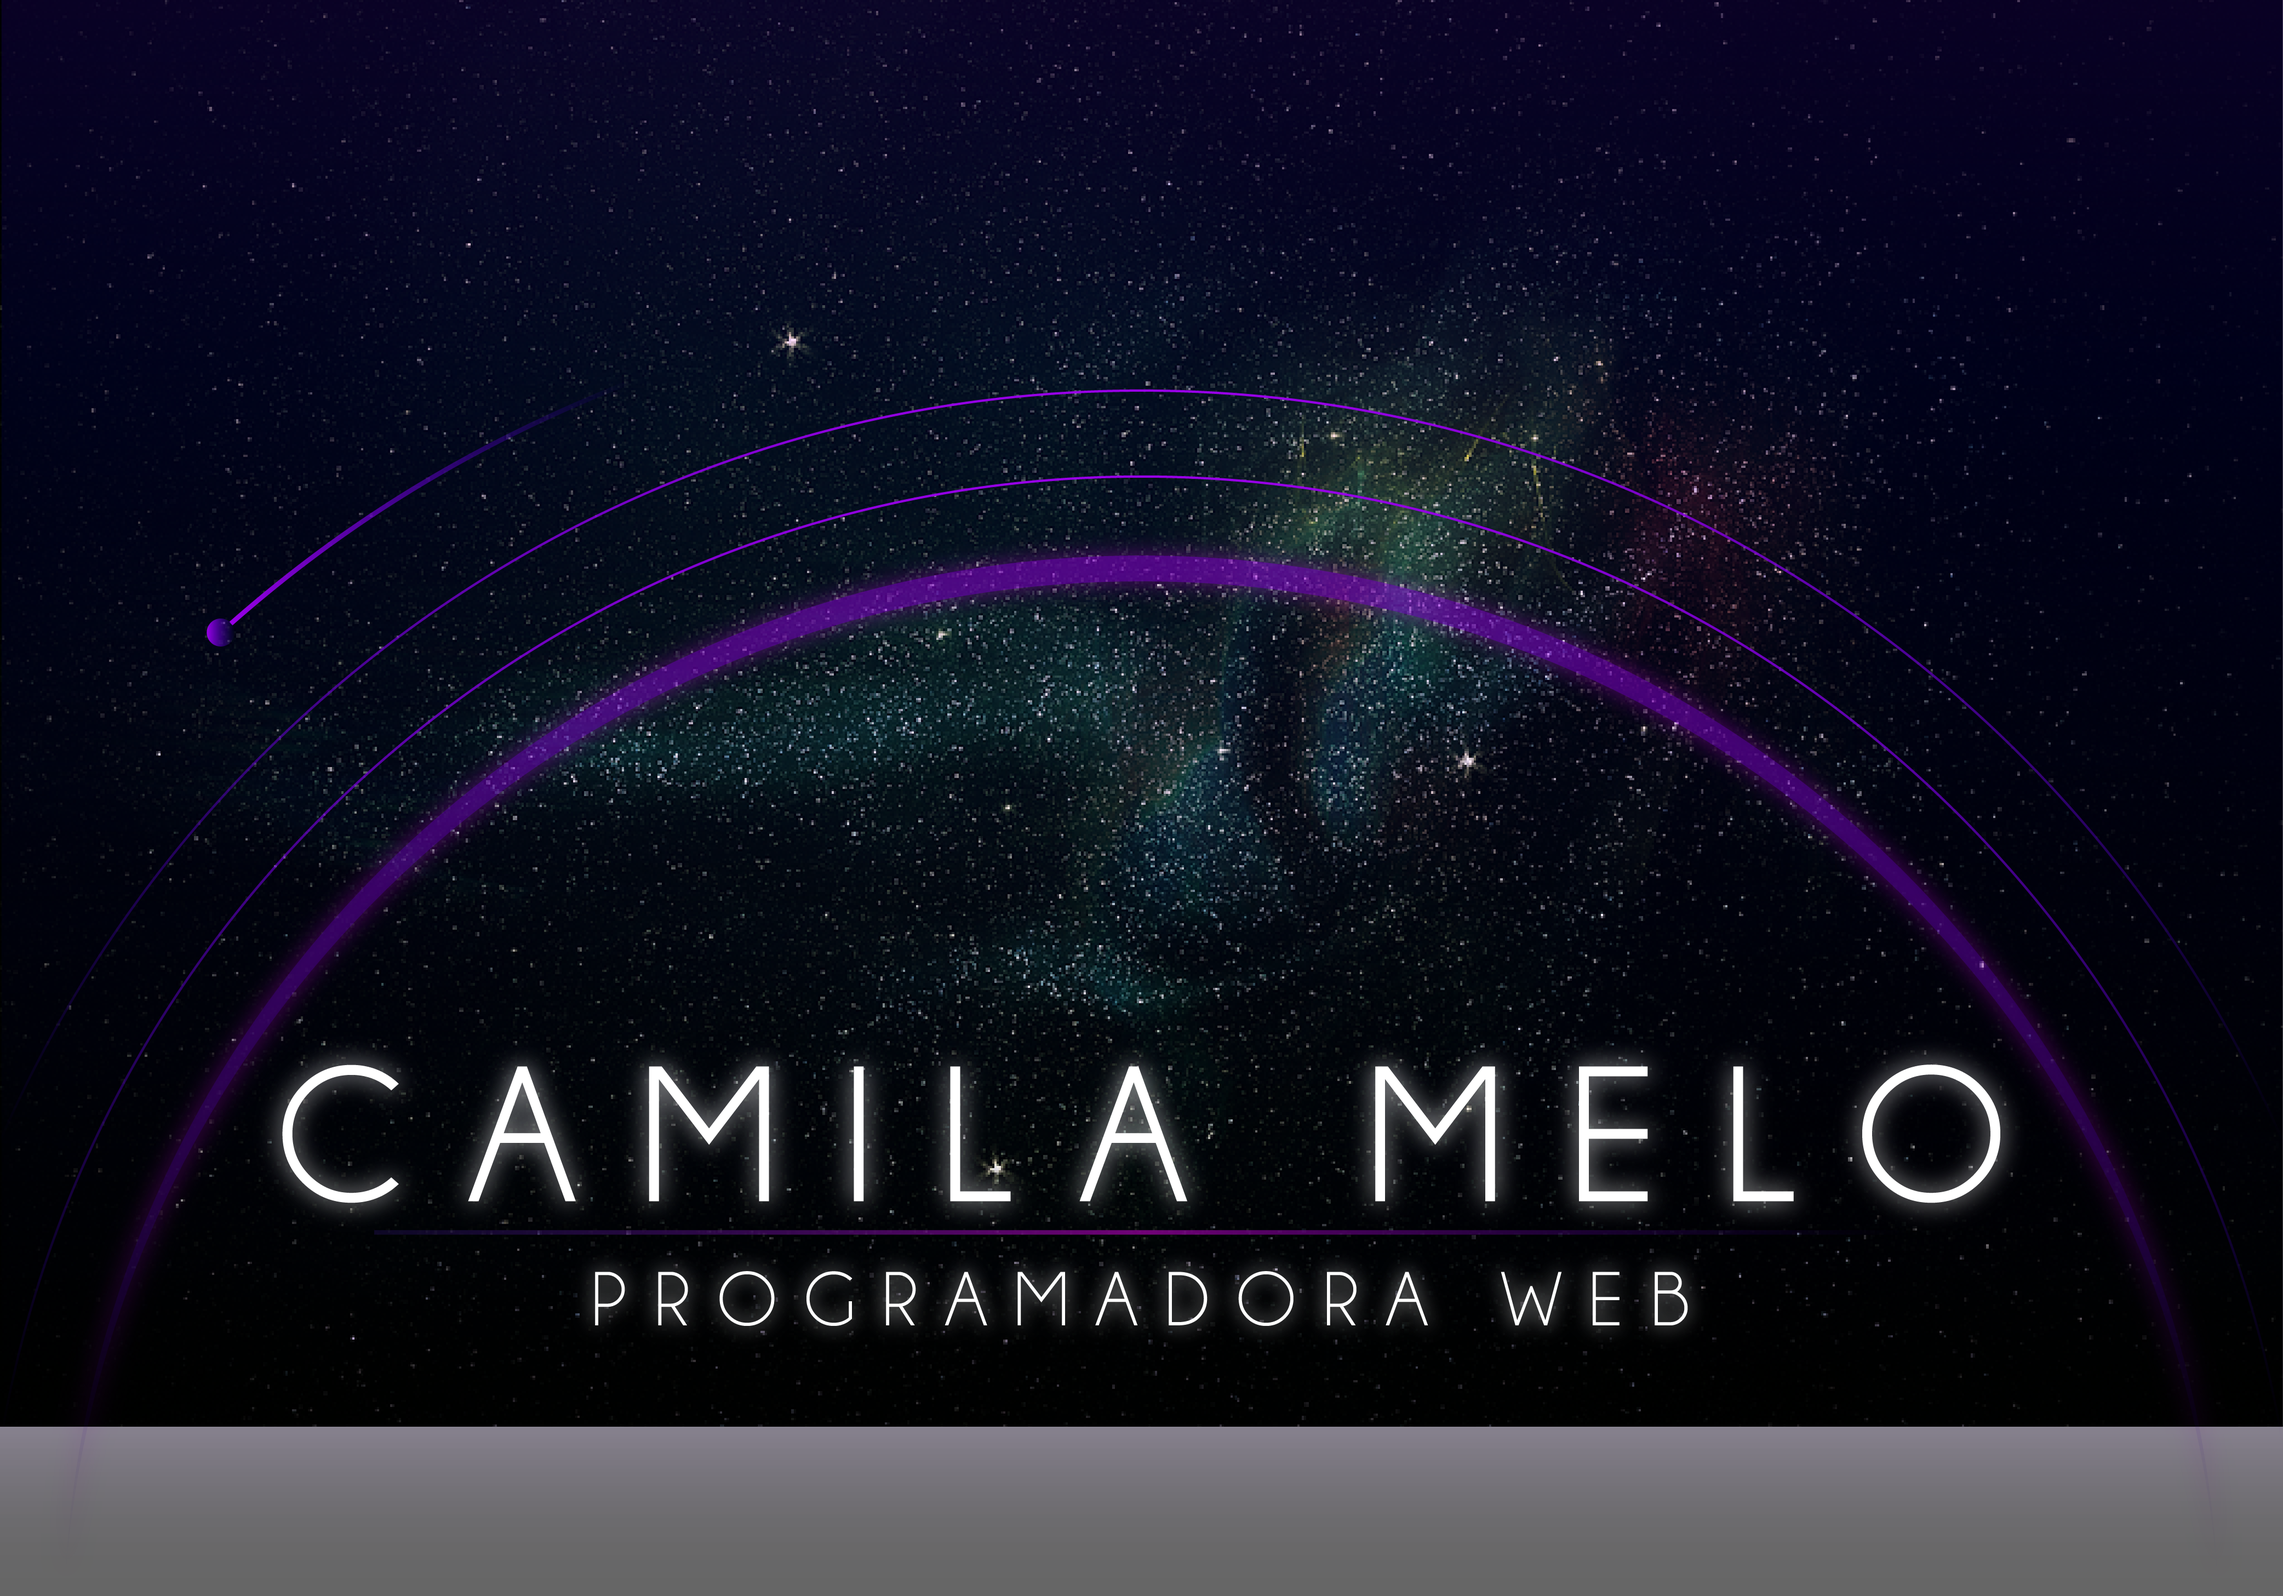
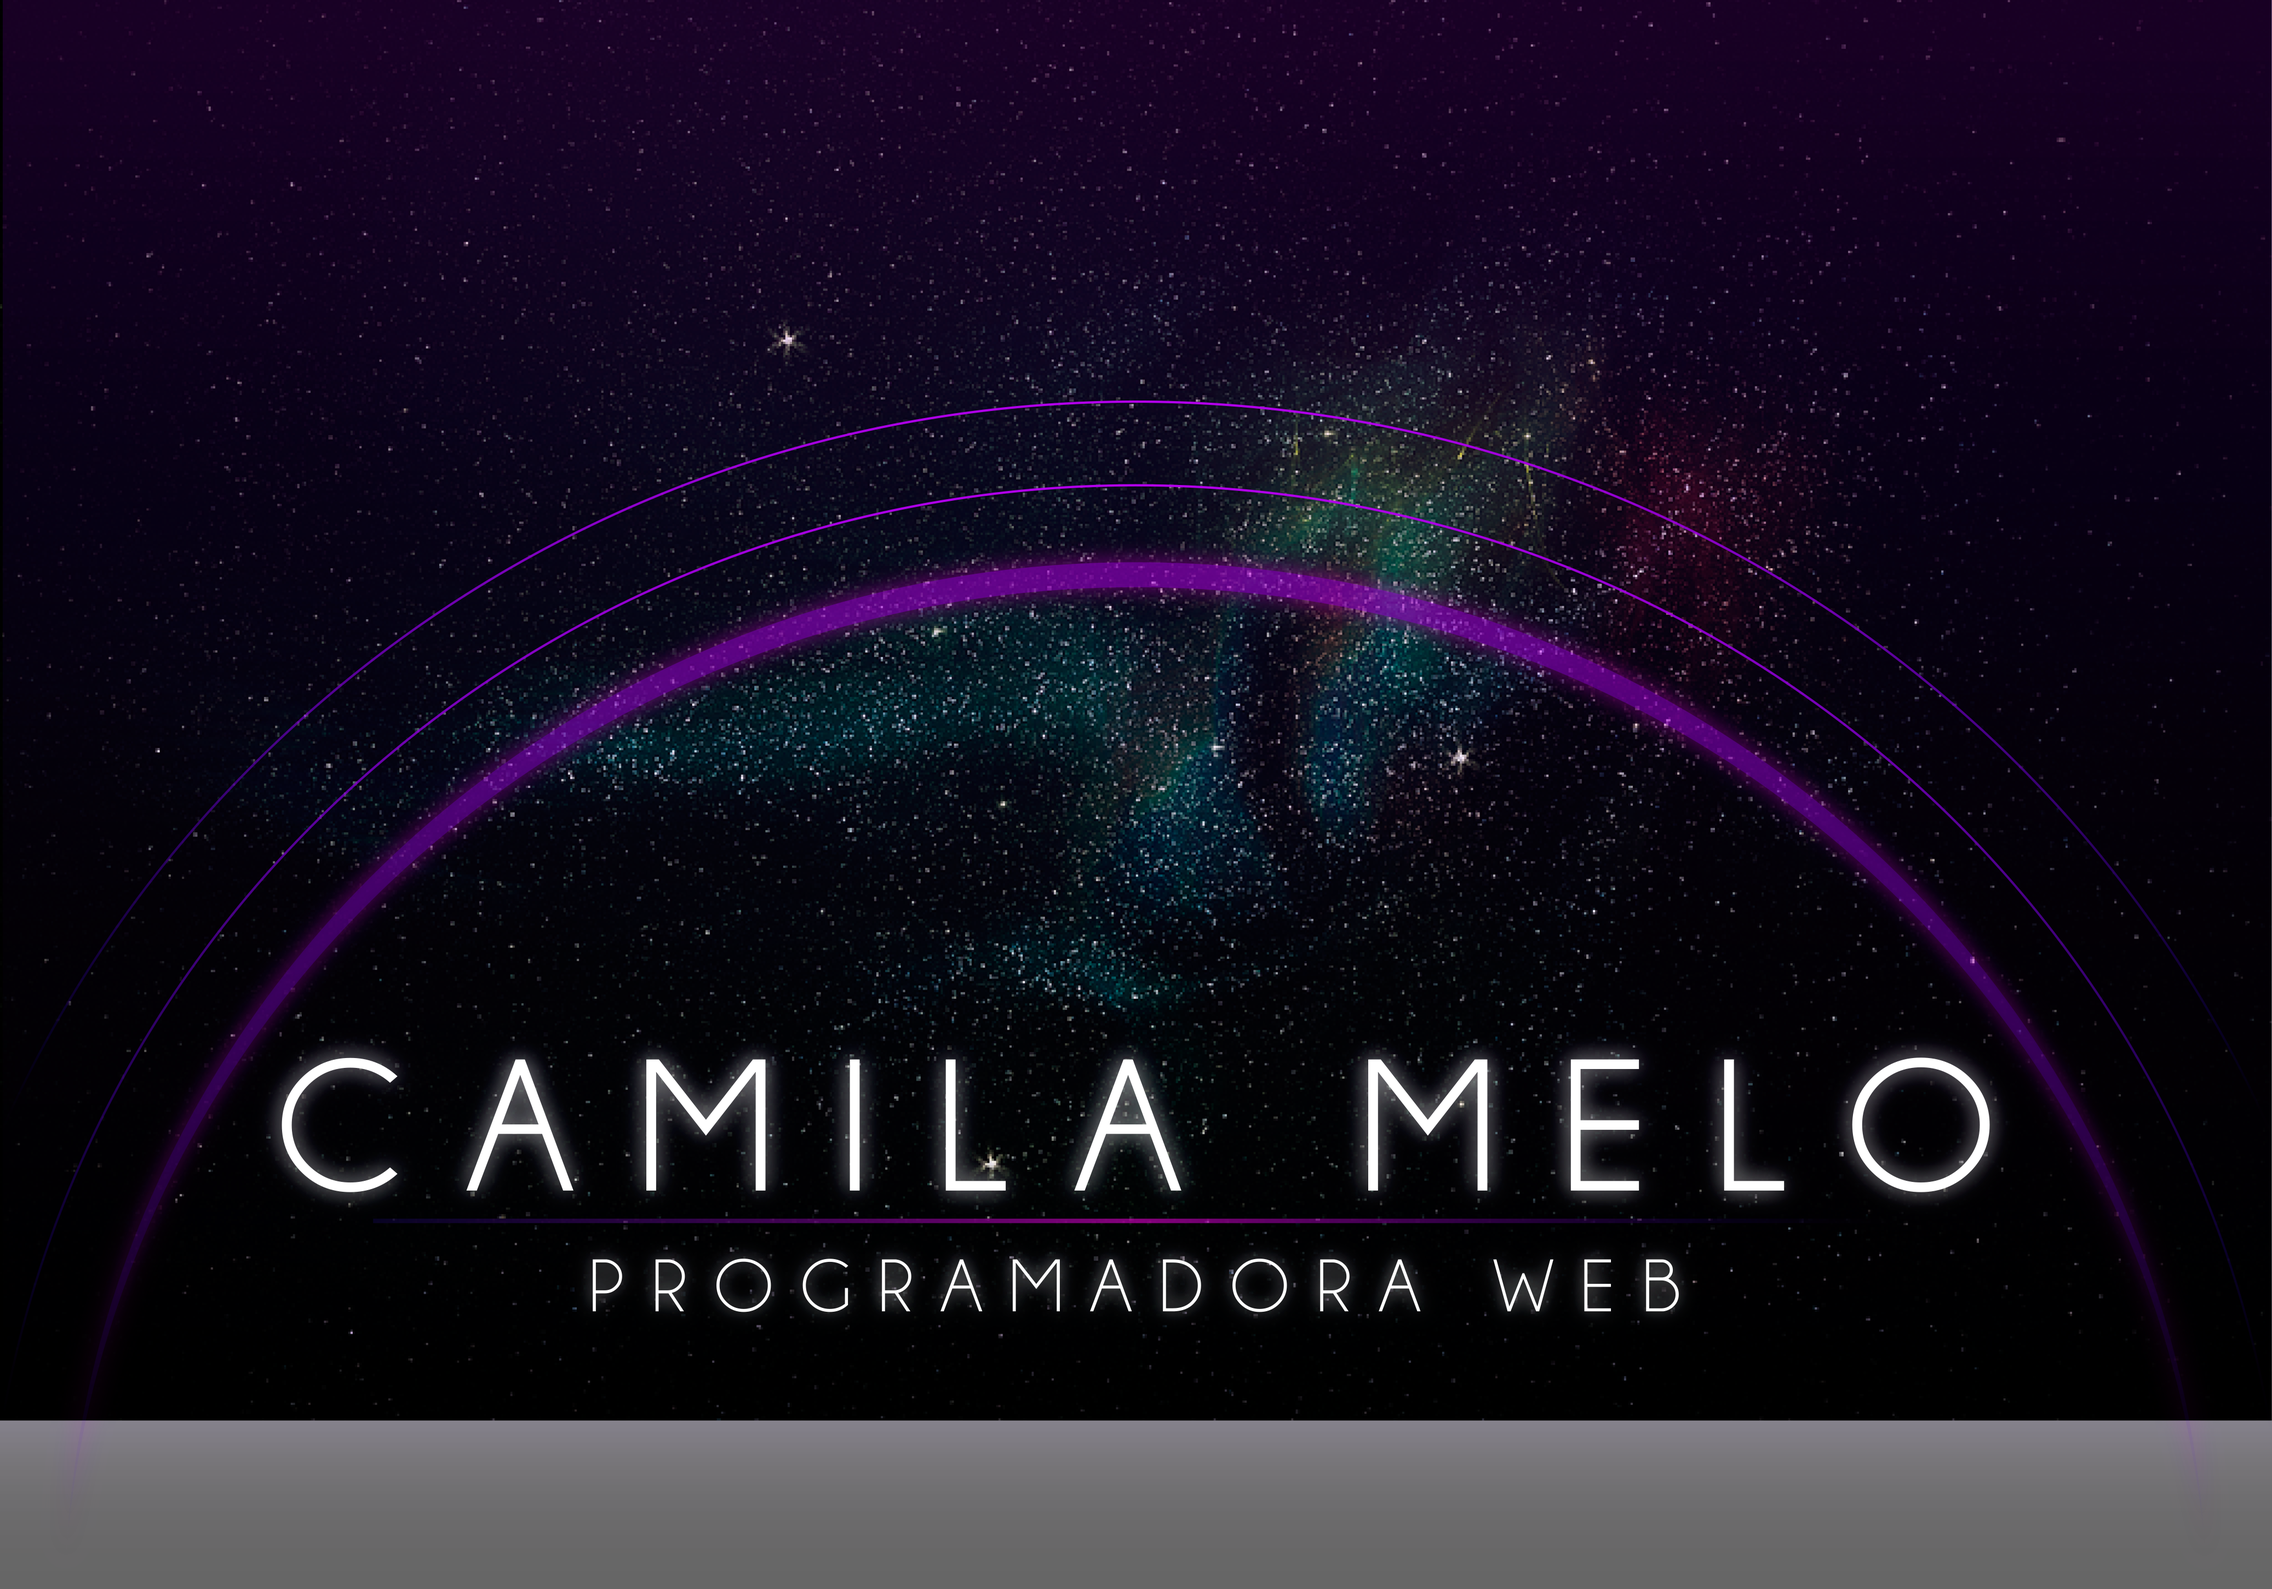
secciones nuevas, menu bien
falta programacion de la mira el cometa, y el click sobre el menu

diff --git a/stylesheets/estilos.css b/stylesheets/estilos.css
@@ -8,137 +8,104 @@
   font-weight: normal;
   font-style: normal;
 }
-
+body{
+  background-color: #000;
+}
 #header{
-	width: 100%;
-	height: 60px;
-	background-color:#D3D3D3;
-	font-family: 'Raleway', sans-serif;
-	font-weight: 400;
+	width: 75%;
+  height: 700px;
+  background-image: url(../images/head.png);
+  font-family: 'Raleway', sans-serif;
+  font-weight: 400;
+  background-size: 74vw 50vw;
+  background-repeat: no-repeat;
+  margin: 0 auto;
+  overflow: hidden;
 }
 #header nav {
 	margin: 0 auto;
 	vertical-align: middle;
 	width: 100%;
-  background-color: rgba(0, 0, 0, 0.3);
+  background-image: url(../images/fondo_m.png);
   position: fixed;
-  height: 100px;
-  padding-left: 17%;
+ height: 9vw;
+  
 }
-
+.menu{
+  width: 100%;
+  margin-left:-40px;
+}
 li{
   display: inline-block;
-  width: 130px;
-    height: 70px;
-    margin-top:10px;
-    margin-left: 100px;
+  width: 11vw;
+  height: 6vw;
+  margin: 13px 3.5%;
     
 }
 .about  a{
-   background: url("../images/about_me.png");
-  background-size: 130px 60px;
+   background: url("../images/about_me.png"); 
+   background-size: 11vw 4vw;
   background-repeat: no-repeat;
   display: inline-block;
-  width: 130px;
-  height: 70px;
+  width: 100%;
+  height: 100%;
+  vertical-align: top;
 }
 .skills a{
-    background: url("../images/skills.png");
-    background-size: 85px 60px;
+    background: url("../images/skills.png");    
     background-repeat: no-repeat;  
+    background-size: 11vw 4vw;
     display: inline-block;
-    width: 85px;
-    height:70px;
+     width: 100%;
+  height: 100%;
+    vertical-align: top;
 }
 .int_center a{
-    background: url("../images/int_center.png");
-   background-size: 150px 69px;
+    background: url("../images/int_center.png");  
     background-repeat: no-repeat;
+    background-size: 11vw 5vw;
     display: inline-block;
-    width: 154px;
-    height: 70px;
+     width: 100%;
+  height: 100%;
+    vertical-align: top;
 }
 .contact a{
-    background: url("../images/contact.png");
-    background-size: 140px 60px;
-background-repeat: no-repeat;
-display: inline-block;
-width: 140px;
-height: 70px
+    background: url("../images/contact.png");   
+    background-repeat: no-repeat;
+    background-size: 11vw 4vw;
+    display: inline-block;
+     width: 100%;
+  height: 100%;
+    vertical-align: top;
 }
 
 
-[class^="icon-"]:before, [class*=" icon-"]:before {
-  font-family: "fontello";
-  font-style: normal;
-  font-weight: normal;
-  speak: none;
- 
-  display: inline-block;
-  text-decoration: inherit;
-  width: 1em;
-  margin-right: .2em;
-  text-align: center;
-  /* opacity: .8; */
- 
-  /* For safety - reset parent styles, that can break glyph codes*/
-  font-variant: normal;
-  text-transform: none;
-     
-  /* fix buttons height, for twitter bootstrap */
-  line-height: 1em;
- 
-  /* Animation center compensation - margins should be symmetric */
-  /* remove if not needed */
-  margin-left: .2em;
- 
-  /* you can be more comfortable with increased icons size */
-  /* font-size: 120%; */
- 
-  /* Uncomment for 3D effect */
-  /* text-shadow: 1px 1px 1px rgba(127, 127, 127, 0.3); */
+#about{
+
+  width: 75%;
+  height: 700px;
+  background-image: url(../images/about_seccion.png);
+  font-family: 'Raleway', sans-serif;
+  font-weight: 400;
+  background-size: 74vw 50vw;
+  background-repeat: no-repeat;
+  margin: 0 auto;
+  overflow: hidden;
+  background-color: #fff;
+
 }
-.icon-html5:before { content: '\e800';
--ms-transform: scale(5); /* IE 9 */
-    -webkit-transform: scale(5); /* Chrome, Safari, Opera */
-    transform: scale(5); } /* '' */
-.icon-code:before { content: '\e801'; 
--ms-transform: scale(5); /* IE 9 */
-    -webkit-transform: scale(5); /* Chrome, Safari, Opera */
-    transform: scale(5);} /* '' */
-.icon-css3:before { content: '\e802'; 
--ms-transform: scale(5); /* IE 9 */
-    -webkit-transform: scale(5); /* Chrome, Safari, Opera */
-    transform: scale(5);} /* '' */
-.icon-github:before { content: '\e803'; 
--ms-transform: scale(5); /* IE 9 */
-    -webkit-transform: scale(5); /* Chrome, Safari, Opera */
-    transform: scale(5);} /* '' */
-.icon-emo-thumbsup:before { content: '\e804'; 
--ms-transform: scale(2); /* IE 9 */
-    -webkit-transform: scale(2); /* Chrome, Safari, Opera */
-    transform: scale(2);} /* '' */
-.icon-heart-empty:before { content: '\e805'; 
--ms-transform: scale(2); /* IE 9 */
-    -webkit-transform: scale(2); /* Chrome, Safari, Opera */
-    transform: scale(2);} /* '' */
-.icon-heart:before { content: '\e806';
--ms-transform: scale(5); /* IE 9 */
-    -webkit-transform: scale(5); /* Chrome, Safari, Opera */
-    transform: scale(5); } /* '' */
-.icon-check:before { content: '\e807'; 
--ms-transform: scale(2); /* IE 9 */
-    -webkit-transform: scale(2); /* Chrome, Safari, Opera */
-    transform: scale(2);} /* '' */
-.icon-heart-filled:before { content: '\e808'; 
--ms-transform: scale(5); /* IE 9 */
-    -webkit-transform: scale(5); /* Chrome, Safari, Opera */
-    transform: scale(5);} /* '' */
-.icon-college:before { content: '\e809';
--ms-transform: scale(5); /* IE 9 */
-    -webkit-transform: scale(5); /* Chrome, Safari, Opera */
-    transform: scale(5); } /* '' */
-.icon-garden:before { content: '\e80a';
--ms-transform: scale(5); /* IE 9 */
-    -webkit-transform: scale(5); /* Chrome, Safari, Opera */
-    transform: scale(5); } /* '' */
+
+#skills{
+
+  width: 75%;
+  height: 700px;
+  background-image: url(../images/skills_seccion.png);
+  font-family: 'Raleway', sans-serif;
+  font-weight: 400;
+  background-size: 74vw 50vw;
+  background-repeat: no-repeat;
+  margin: 0 auto;
+  overflow: hidden;
+  background-color: #000;
+
+}

diff --git a/index.html b/index.html
@@ -26,12 +26,16 @@
   <body>
       <div id="header">
         <nav>
-          <li class="about"><a href="#"></a></li>
-          <li class="skills"><a href="#"></a></li>
-          <li class="int_center"><a href="#"></a></li>
-          <li class="contact"><a href="#"></a></li>
+          <ul class="menu">
+            <li class="about"><a href="#"></a></li>
+            <li class="skills"><a href="#"></a></li>
+            <li class="int_center"><a href="#"></a></li>
+            <li class="contact"><a href="#"></a></li>
+          </ul>
         </nav>
       </div><!-- end header -->
+      <div id="about"></div>
+      <div id="skills"></div>
 
    
 
